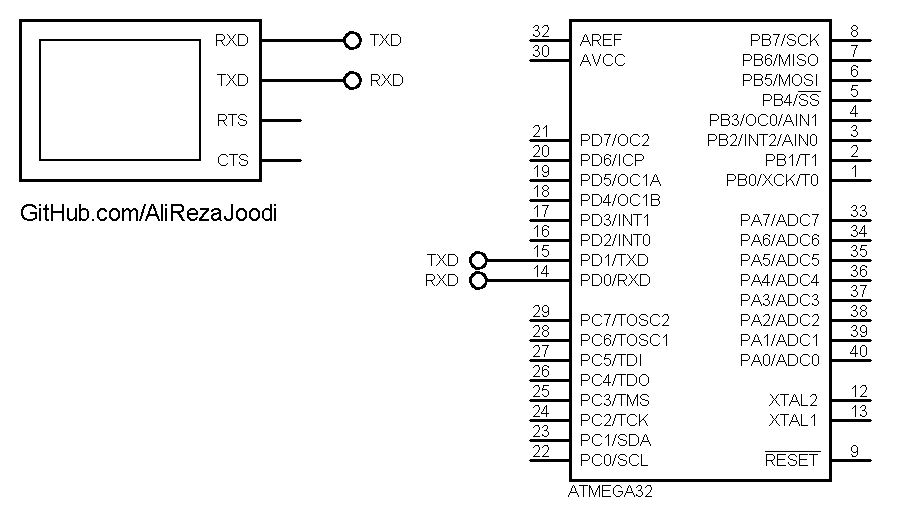
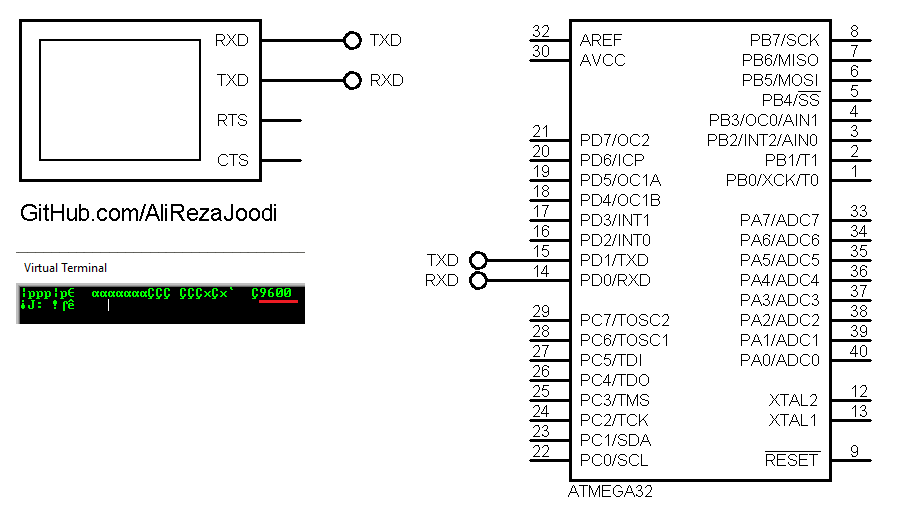
Update

Changed region(s): [[0.0, 0.505, 0.3418, 0.6535]]

diff --git a/README.md b/README.md
@@ -1,7 +1,8 @@
 It's my **AVR Programming** exercises.
 
 ### Pictures of the Repository
-![](Thermometer_LM35/Simulate/Album.png)
-![](Voltmeter_0-20V_BarDisplay/Simulate/Album.png)
-![](Thermostat_LM35/Simulate/Album.png)
-![](Thermometer_LM335/Simulate/Album.png)
+![](Thermometer%20Using%20LM35/Simulate/Album.png)
+![](Voltmeter%20for%200-20V%20with%20Bar%20Display/Simulate/Album.png)
+![](Thermostat%20Using%20LM35/Simulate/Album.png)
+![](Thermometer%20Using%20LM335/Simulate/Album.png)
+![](Baud%20Rate%20Finder%20for%20UART/Simulate/Album.png)

diff --git a/_Best Coding for MCU.md b/_Best Coding for MCU.md
@@ -8,7 +8,7 @@ AVR_Projects_Beginning\Thermometer_LM35\Code_BascomAVR\v3.1.bas
 AVR_Exercises\Button\Code_CodeVisionAVR\v1.0.c
 - Checked the old status of the button.
 
-### Start text for LCD
+### Start text on the LCD
 
 AVR_Exercises\Display_LCD_Syntax\Code_BascomAVR\v1.0.bas
 - Included `Display_loading` and `Display_Advertising`
